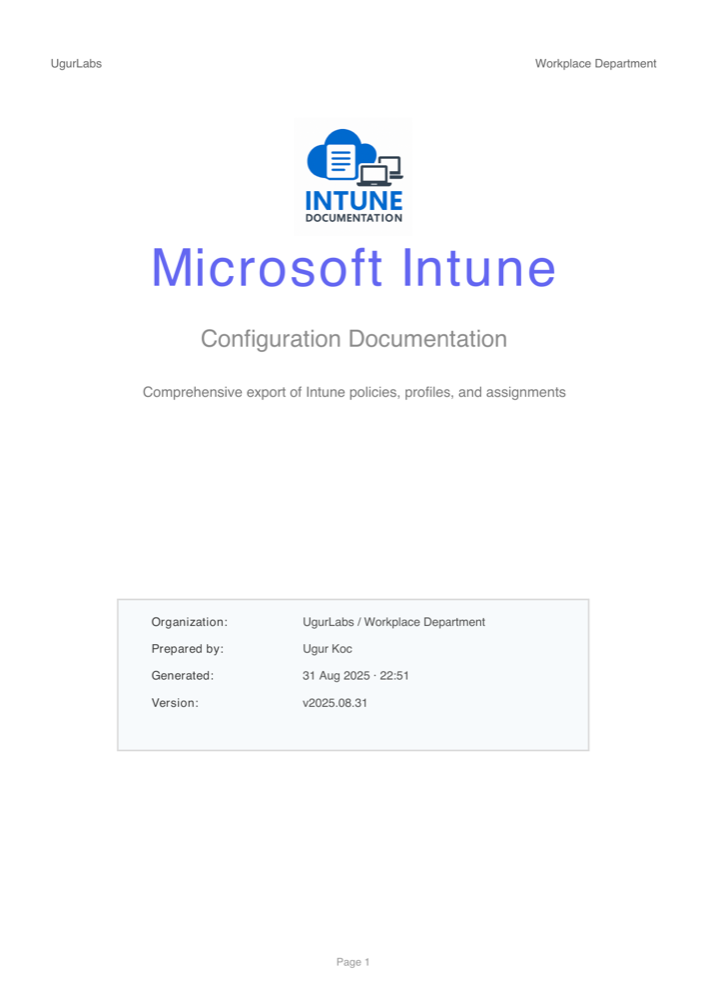
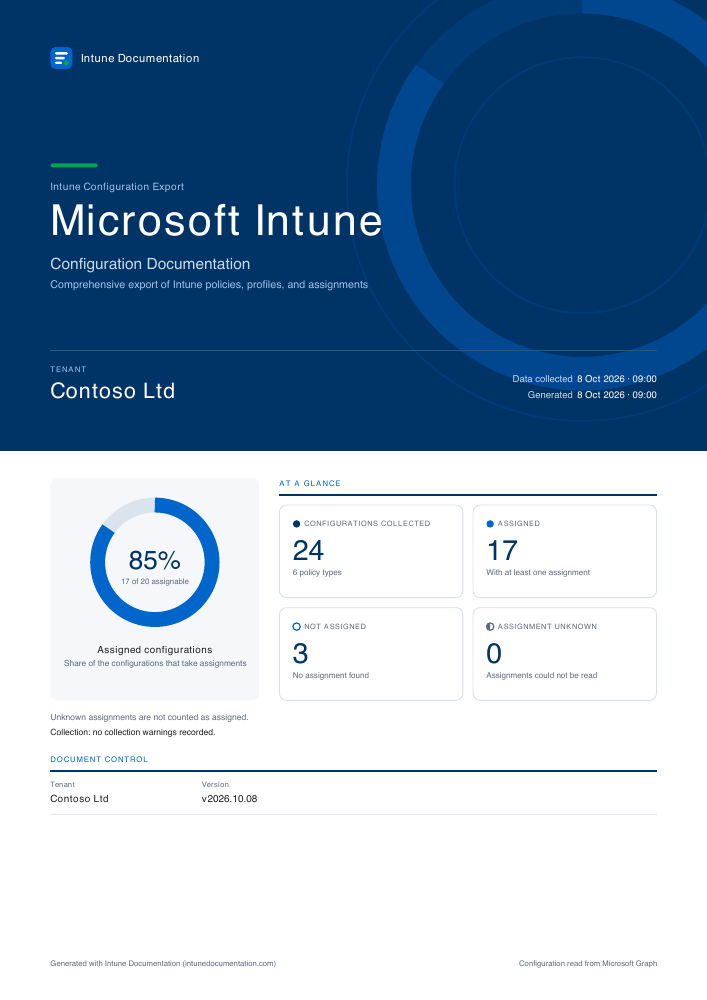
Landing images from the new documentation design, same running title in Word
The landing cover and executive summary images come from the regenerated
sample, the alt texts and lead no longer mention potential gaps or a real
tenant, and the Word running header uses the PDF's title.

diff --git a/src/app/desktop/page.tsx b/src/app/desktop/page.tsx
@@ -402,13 +402,13 @@ function ReportPreview() {
       />
       <Image
         src={reportSummary}
-        alt="Executive summary page with key metrics, assignment coverage, and potential gaps"
+        alt="Executive summary page with configurations per policy type, assignment counts and platform coverage"
         sizes="(min-width: 1024px) 320px, 60vw"
         className="ring-petrol-950/8 shadow-soft absolute top-0 right-0 w-[60%] rotate-2 rounded-lg ring-1"
         priority
       />
       <p className="text-petrol-700 border-petrol-950/8 shadow-card absolute bottom-0 left-1/2 -translate-x-1/2 rounded-full border bg-white px-4 py-2 text-xs font-semibold whitespace-nowrap">
-        Real export from a sample tenant
+        Export of a sample tenant
       </p>
     </div>
   );

diff --git a/src/app/_landing/hero.tsx b/src/app/_landing/hero.tsx
@@ -46,13 +46,13 @@ function ReportPreview() {
       />
       <Image
         src={reportSummary}
-        alt="Executive summary page with key metrics, assignment coverage, and potential gaps"
+        alt="Executive summary page with configurations per policy type, assignment counts and platform coverage"
         sizes="(min-width: 1024px) 320px, 60vw"
         className="ring-petrol-950/8 shadow-soft absolute top-0 right-0 w-[60%] rotate-2 rounded-lg ring-1"
         priority
       />
       <p className="text-petrol-700 border-petrol-950/8 shadow-card absolute bottom-0 left-1/2 -translate-x-1/2 rounded-full border bg-white px-4 py-2 text-xs font-semibold whitespace-nowrap">
-        Real export from a sample tenant
+        Export of a sample tenant
       </p>
     </div>
   );

diff --git a/src/app/_landing/report-showcase.tsx b/src/app/_landing/report-showcase.tsx
@@ -55,7 +55,7 @@ export function ReportShowcase() {
             inverted
             eyebrow="What you get"
             title="A report a reviewer can actually read."
-            lead="Every setting with its value and description, grouped by policy, with an executive summary that surfaces unassigned and stale configurations."
+            lead="Every setting with its value and description, grouped by policy, with an executive summary of what is assigned, not assigned and not modified in 90 days."
           />
           <ul className="mt-10 grid gap-x-8 gap-y-7 sm:grid-cols-2">
             {features.map(({ icon: Icon, title, desc }) => (

diff --git a/src/lib/__tests__/documentation-export-parity.test.ts b/src/lib/__tests__/documentation-export-parity.test.ts
@@ -293,3 +293,16 @@ describe("documentation export parity", () => {
     expect(text).not.toMatch(/ - /);
   });
 });
+
+describe("running header title", () => {
+  it("is the same in PDF and Word", async () => {
+    const docx = await generateDetailedDOCX(CONTOSO_TENANT as never);
+    const zip = await JSZip.loadAsync(docx.buffer);
+    const headers = await Promise.all(
+      Object.keys(zip.files)
+        .filter((name) => /^word\/header\d*\.xml$/.test(name))
+        .map((name) => zip.file(name)!.async("string")),
+    );
+    expect(headers.join("")).toContain("Microsoft Intune Configuration Documentation");
+  });
+});

diff --git a/src/lib/docx-generator-detailed.ts b/src/lib/docx-generator-detailed.ts
@@ -314,9 +314,13 @@ export async function generateDetailedDOCX(
       console.warn("Failed to add header logo:", e);
     }
   }
+  // Same running title as the PDF.
+  const runningTitle =
+    scope?.title ||
+    `${branding?.coverPage?.title || "Microsoft Intune"} Configuration Documentation`;
   const contentHeader = runningHeader(
     theme,
-    titleText,
+    runningTitle,
     branding?.header?.enabled && branding.header.text
       ? branding.header.text
       : data.tenantLabel,
